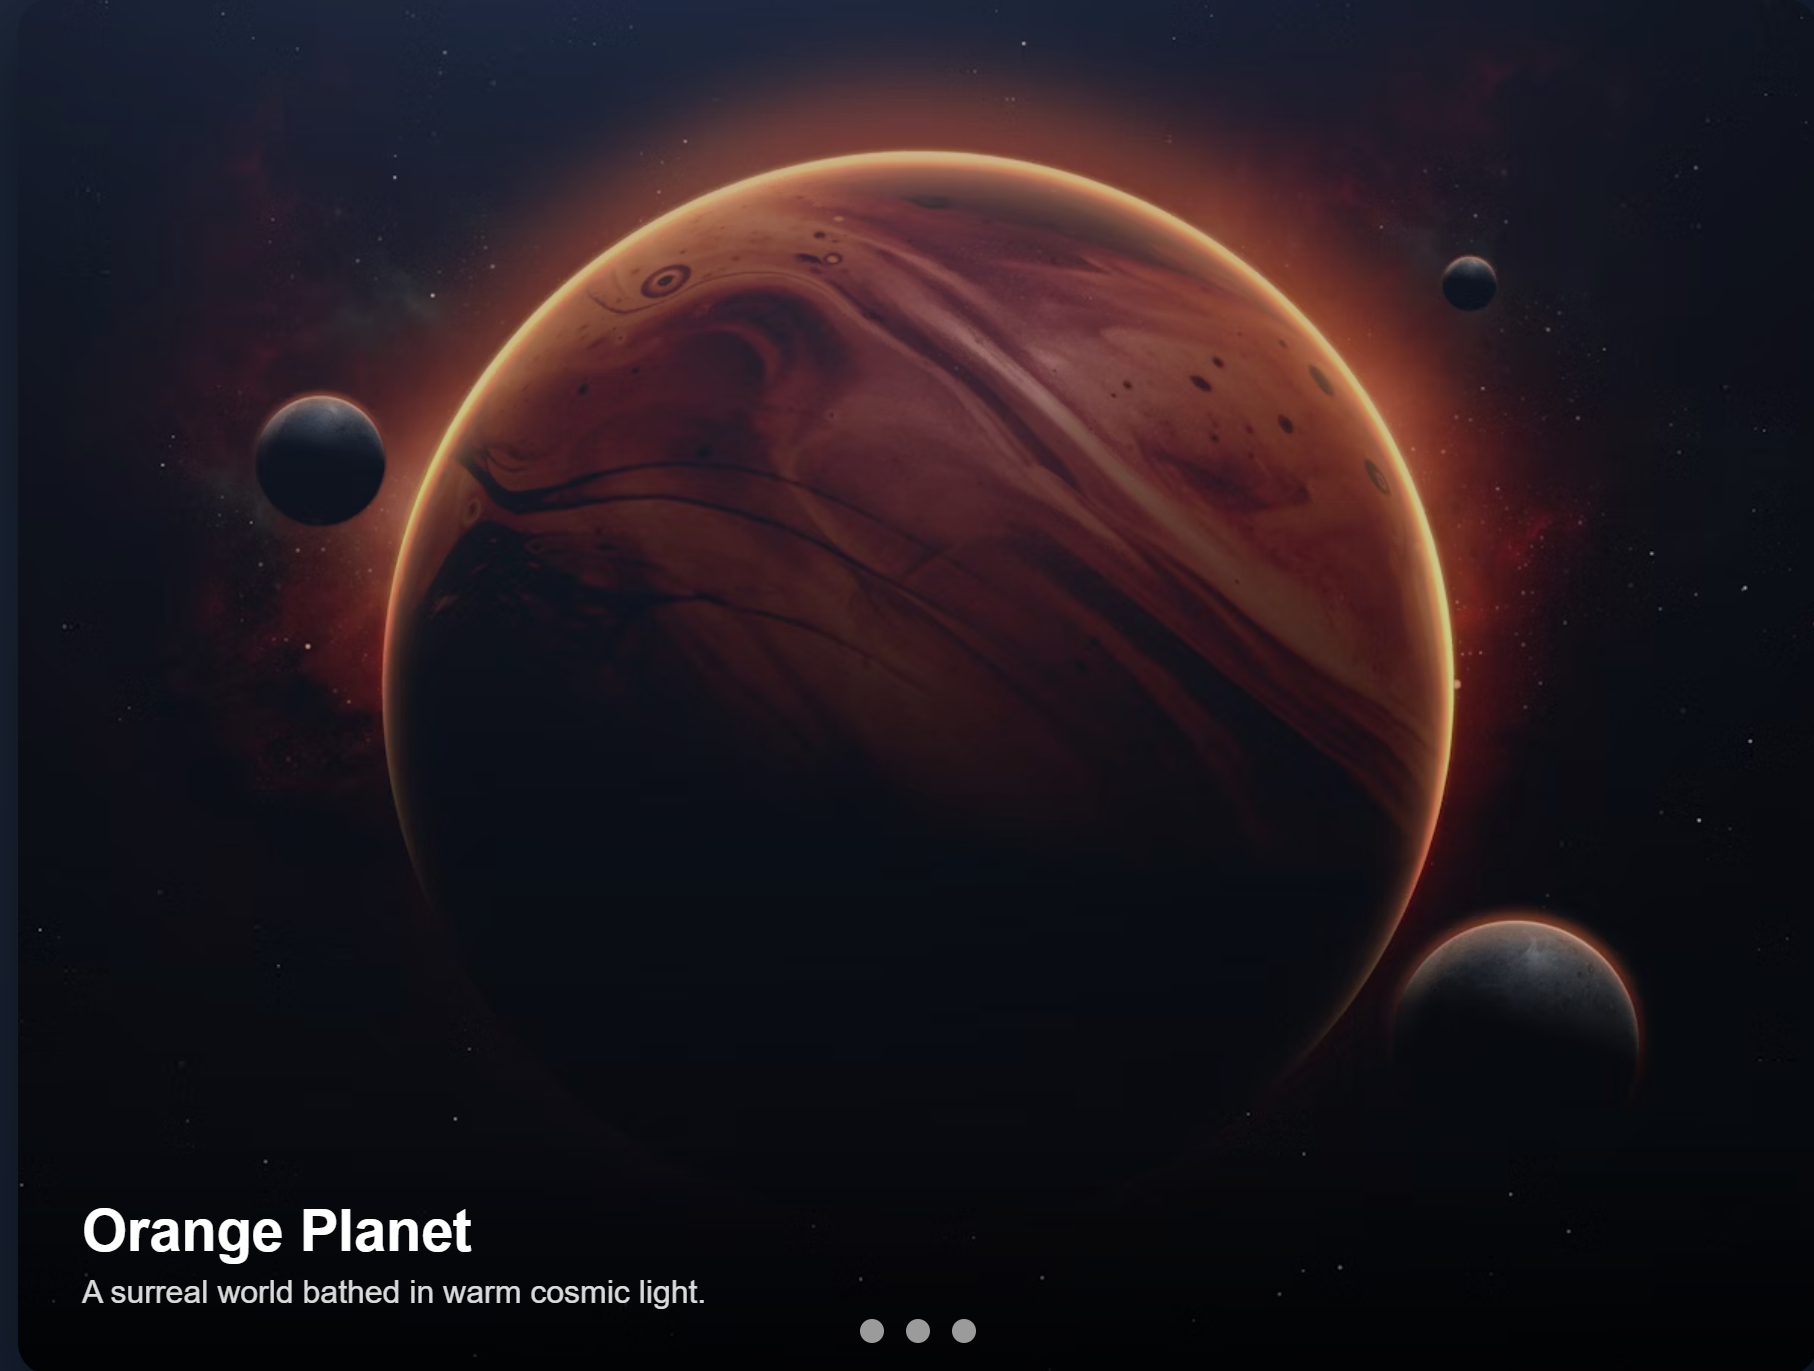
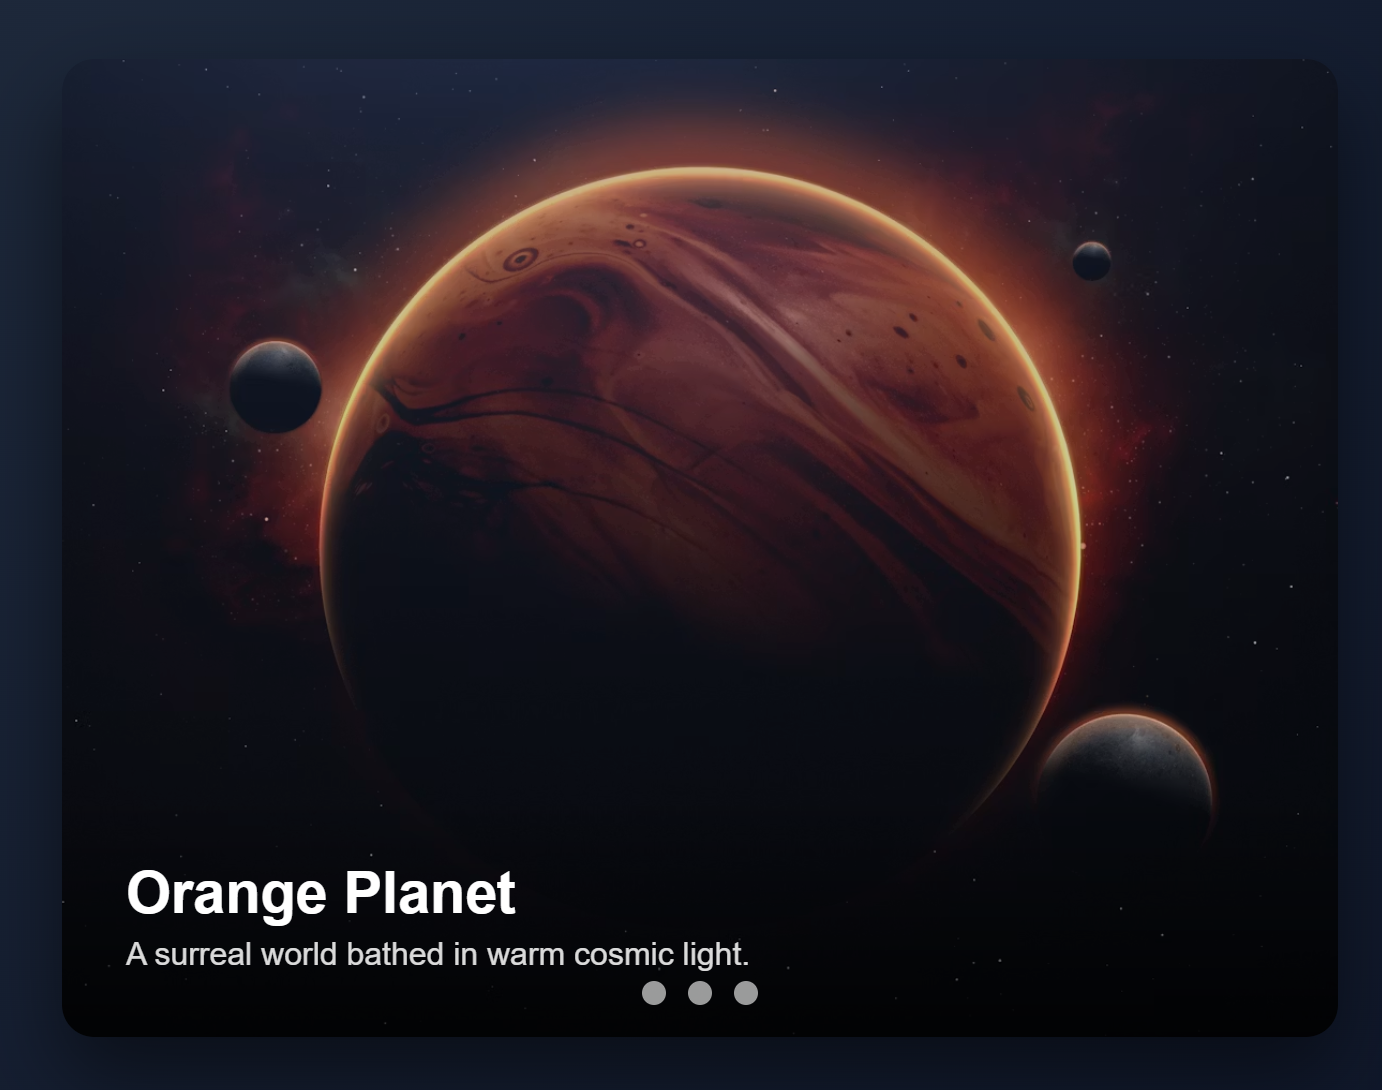
Updated service and projects

diff --git a/index.html b/index.html
@@ -205,11 +205,13 @@
             </div>
 
             <div class="work-card">
-                <img src="user/img6.png" alt="Project 6">
+                <img src="user/WIIS.png" alt="Project 6">
                 <div class="work-info">
-                    <h3>Expanding Cards</h3>
-                    <p>It is a card-based UI component that expands to show more information when clicked.</p>
-                    <a href="https://expanding-cards-pro.netlify.app" target="_blank">View Project</a>
+                    <h3>waste-to-infrastructure-integrated-system</h3>
+                    <p>It is an integrated system which uses arduino along with many sensors to give real time data on
+                        system.</p>
+                    <a href="https://github.com/MuffledTech/Waste-to-infrastructure-integrated-system"
+                        target="_blank">View Project</a>
                 </div>
             </div>
 
@@ -243,12 +245,13 @@
             </div>
 
             <div class="work-card">
-                <img src="user/img2.png" alt="Project 9">
+                <img src="user/NMS.png" alt="Project 9">
                 <div class="work-info">
-                    <h3>Digital Card</h3>
-                    <p>It is a digital visiting card created using HTML and CSS(beginner-level).</p>
-                    <a href="https://drive.google.com/drive/folders/1Ojdtz4iqhzNU5306QhzpcHrCTCBKBAGg?usp=sharing"
-                        target=" _blank">View Project</a>
+                    <h3>Notes Management System</h3>
+                    <p>A secure Management System built with PHP and MySQL. Supports role-based
+                        access, multi-file uploads,
+                        searchable lesson</p>
+                    <a href="https://github.com/MuffledTech/notes-management-system" target=" _blank">View Project</a>
                 </div>
             </div>
 
@@ -305,6 +308,33 @@
                     <h3>Piano Project</h3>
                     <p>A python project which uses OpenCv to record your hand gestures and play piano.</p>
                     <a href="https://for-special-someone.netlify.app" target=" _blank">View Project</a>
+                </div>
+            </div>
+
+            <div class="work-card">
+                <img src="user/esp32-car.png" alt="Project 11">
+                <div class="work-info">
+                    <h3>Esp32 robot Car</h3>
+                    <p>A robotic Bluetooth controlled car made using esp32.</p>
+                    <a href="https://github.com/MuffledTech/ESP32_CAR" target=" _blank">View Project</a>
+                </div>
+            </div>
+
+            <div class="work-card">
+                <img src="user/mochi.png" alt="Project 11">
+                <div class="work-info">
+                    <h3>Esp32 Mochi</h3>
+                    <p>A cute desktop robot made using esp32, oled display and a touch sensor.</p>
+                    <a href="https://github.com/MuffledTech/MOchi" target=" _blank">View Project</a>
+                </div>
+            </div>
+
+            <div class="work-card">
+                <img src="user/music.png" alt="Project 11">
+                <div class="work-info">
+                    <h3>Esp32 Mochi</h3>
+                    <p>A music player made to play your favorite tunes.</p>
+                    <a href="https://new-music-project.netlify.app" target=" _blank">View Project</a>
                 </div>
             </div>
 
@@ -402,7 +432,12 @@
             <div class="service-card">
                 <img src="system/service2.jpg" alt="Service 3">
                 <h3>Consulting</h3>
-                <p>Providing expert advice on web technologies and design.</p>
+                <p>Providing advice on web technologies and design.</p>
+            </div>
+            <div class="service-card">
+                <img src="system/robot.png" alt="Service 2">
+                <h3>Tinkering</h3>
+                <p>Creating arduino and IoT projects as per request.</p>
             </div>
         </div>
     </section>